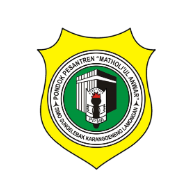
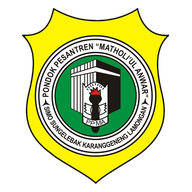
feat(pwa): ganti ikon aplikasi menjadi transparan elegan tanpa kotak putih
- generate ulang icon-512-v2.png, icon-192-v2.png, icon.png, dan favicon.ico dengan latar belakang transparan (alpha channel 0)
- seimbangkan skala logo ke 92% optical balance agar rapi dan tidak terpotong
- sesuaikan public/manifest.json menggunakan purpose: 'any' agar Windows Desktop dan Android Launcher menampilkan lambang perisai secara melayang tanpa kotak putih
- perbarui metadata icons di src/app/layout.tsx

diff --git a/src/app/layout.tsx b/src/app/layout.tsx
@@ -10,10 +10,11 @@ export const metadata: Metadata = {
   icons: {
     icon: [
       { url: '/favicon.ico' },
-      { url: '/logo.png', type: 'image/png' }
+      { url: '/icon-192-v2.png', type: 'image/png', sizes: '192x192' },
+      { url: '/icon-512-v2.png', type: 'image/png', sizes: '512x512' }
     ],
     apple: [
-      { url: '/logo.png', type: 'image/png' }
+      { url: '/icon-512-v2.png', type: 'image/png', sizes: '512x512' }
     ]
   },
   appleWebApp: {
